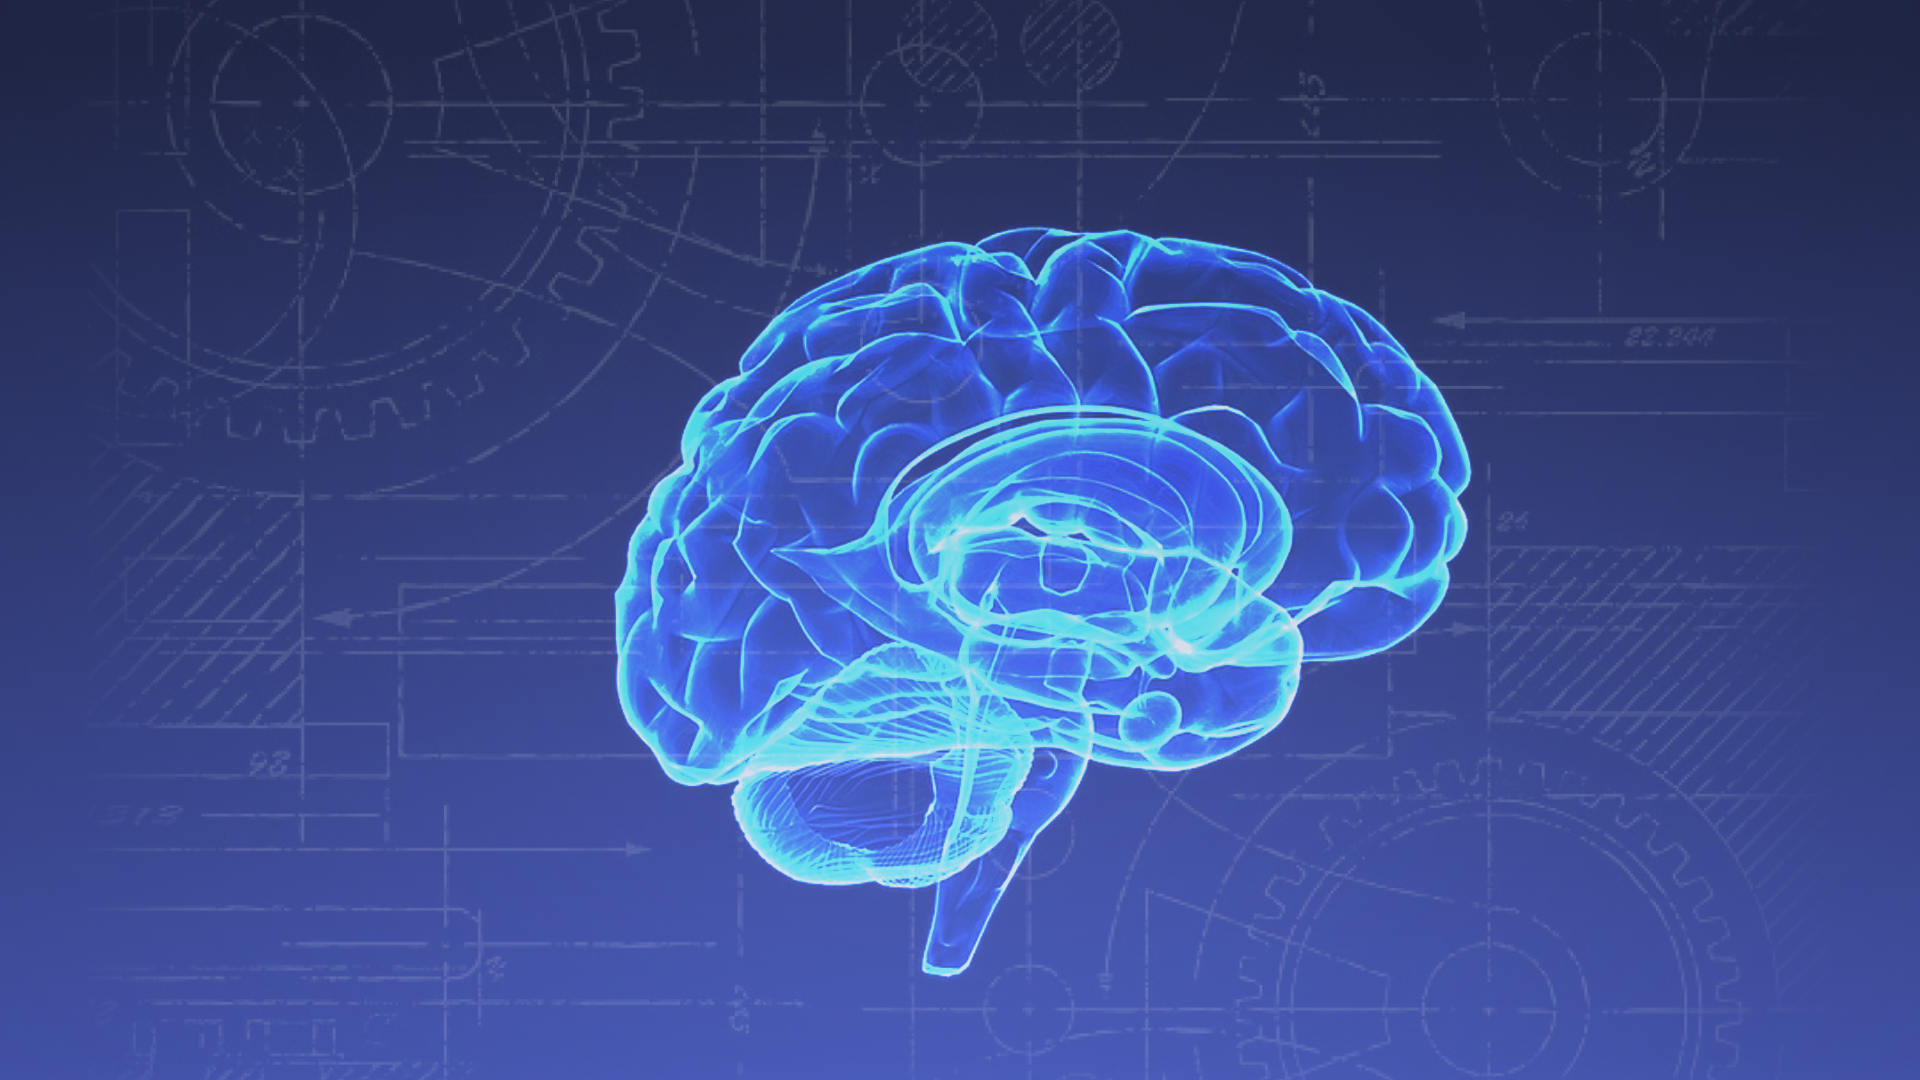
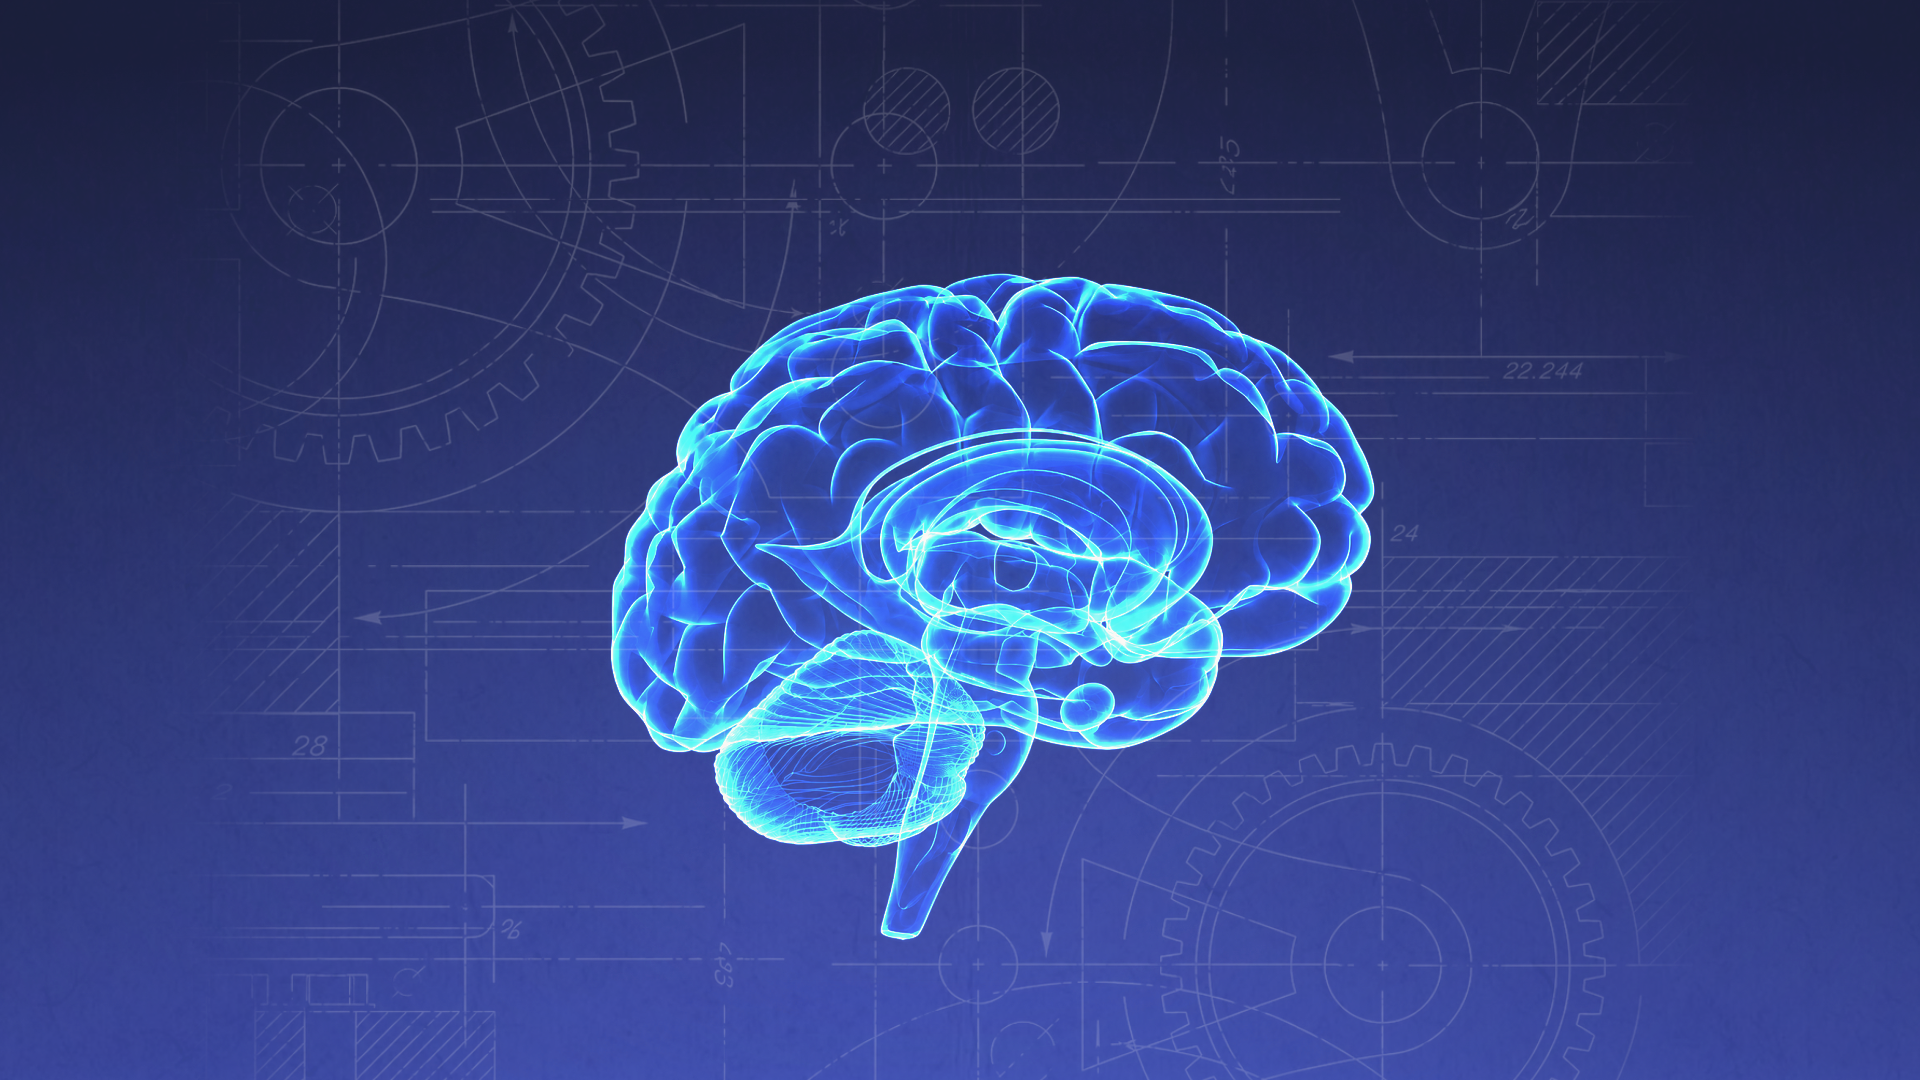
changed bg assets

diff --git a/assets/css/2026main.css b/assets/css/2026main.css
@@ -1,7 +1,8 @@
 /* ── HERO ── */
 
 .hero {
-    background: url('./images/brain.png') center / cover no-repeat;
+    /* background: url('./images/brain.png') center / cover no-repeat; */
+    background: url('../brainBGAssets/brain_idle.png') center / cover no-repeat;
     min-height: 100vh;
     display: flex;
     align-items: center;